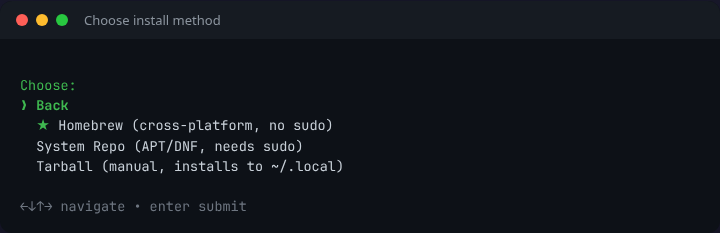
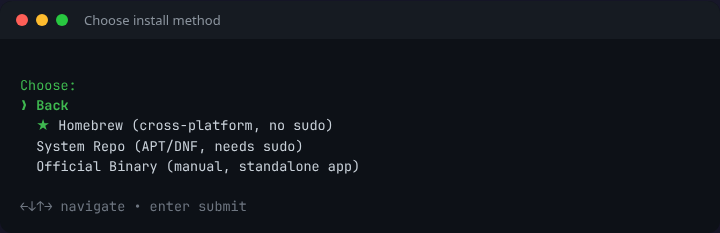
docs: streamline README and rename tarball references to official binary

Changed region(s): [[0.0306, 0.691, 0.4889, 0.7511]]

diff --git a/docs/index.html b/docs/index.html
@@ -217,8 +217,8 @@
                                     <li class="flex items-start gap-3">
                                         <span class="flex-shrink-0 flex items-center justify-center w-6 h-6 bg-amber-500/20 text-amber-400 font-mono rounded text-xs border border-amber-500/30">3</span>
                                         <div>
-                                            <strong class="text-slate-200">Tarball (Fallback)</strong>
-                                            <p class="text-slate-400 text-xs mt-0.5">Linux only. Downloads to a local folder, no sudo required.</p>
+                                            <strong class="text-slate-200">Official Binary</strong>
+                                            <p class="text-slate-400 text-xs mt-0.5">Downloads the official standalone package. No sudo required.</p>
                                         </div>
                                     </li>
                                 </ul>
@@ -262,7 +262,7 @@
                             &bull; <strong>Workspace:</strong> <code class="text-slate-300 bg-slate-900 px-1 py-0.5 rounded font-mono">~/my-antigravity-work</code><br>
                             &bull; <strong>Homebrew:</strong> Managed by <code class="text-slate-300 bg-slate-900 px-1 py-0.5 rounded font-mono">brew</code>.<br>
                             &bull; <strong>System Repo (APT/DNF):</strong> Installed system-wide.<br>
-                            &bull; <strong>Tarball:</strong> Installed to <code class="text-slate-300 bg-slate-900 px-1 py-0.5 rounded font-mono">~/.local/lib/antigravity</code>.
+                            &bull; <strong>Official Binary:</strong> Installed to <code class="text-slate-300 bg-slate-900 px-1 py-0.5 rounded font-mono">~/.local/lib/antigravity</code> or <code class="text-slate-300 bg-slate-900 px-1 py-0.5 rounded font-mono">/Applications</code>.
                         </p>
                     </div>
                 </div>
@@ -272,9 +272,9 @@
             <div class="bg-slate-900/50 border border-slate-700 p-5 rounded-xl flex items-start gap-4">
                 <i data-lucide="download" class="w-6 h-6 text-indigo-400 mt-1 shrink-0"></i>
                 <div>
-                    <h3 class="font-bold text-white mb-1">Need the Linux tarball directly?</h3>
+                    <h3 class="font-bold text-white mb-1">Need the Official Binary directly?</h3>
                     <p class="text-slate-400 text-sm leading-relaxed mb-2">
-                        If the installer doesn't support your Linux distro, download the tarball manually:
+                        If the installer doesn't support your system, download the standalone package manually:
                     </p>
                     <!-- TARBALL_LINK — kept in sync by the nightly CI workflow -->
                     <a href="https://edgedl.me.gvt1.com/edgedl/release2/j0qc3/antigravity/stable/1.23.2-4781536860569600/linux-x64/Antigravity.tar.gz" target="_blank" class="inline-flex items-center gap-2 px-4 py-2 bg-indigo-600 hover:bg-indigo-500 text-white text-sm font-medium rounded-lg transition-colors">

diff --git a/docs/images/render.html b/docs/images/render.html
@@ -63,7 +63,7 @@ body { background: #1a1a2e; display: flex; flex-direction: column; align-items: 
       <span class="dim">github.com/wtg-codes/agv-easy-install</span>
       <span class="dim">──────────────────────────────────────────────────</span>
   <span class="cyan">OS:</span>   <span class="bold">Bluefin (Version: 43.20260505) (Atomic)</span> <span class="dim">(x86_64)</span>
-  <span class="cyan">AGV:</span>  <span class="green">✓ Installed</span> <span class="dim">(Tarball)</span>
+  <span class="cyan">AGV:</span>  <span class="green">✓ Installed</span> <span class="dim">(Binary)</span>
   <span class="cyan">Best:</span> <span class="green">★ Homebrew</span> <span class="dim">(best for this system)</span>
 
 <span class="green">Choose:</span>
@@ -84,7 +84,7 @@ body { background: #1a1a2e; display: flex; flex-direction: column; align-items: 
 <span class="cursor">❯ Back</span>
   <span class="green">★</span> Homebrew (cross-platform, no sudo)
   System Repo (APT/DNF, needs sudo)
-  Tarball (manual, installs to ~/.local)
+  Official Binary (manual, standalone app)
 
 <span class="dim">←↓↑→ navigate • enter submit</span>
 </div>
@@ -119,7 +119,7 @@ body { background: #1a1a2e; display: flex; flex-direction: column; align-items: 
   <span class="green">⠋</span> Downloading Antigravity payload...
   <span class="green">✓</span> Extracting binaries...
 
-<span class="yellow">⚠ Antigravity occasionally fails to find Chrome when installed via Brew or Tarball.</span>
+<span class="yellow">⚠ Antigravity occasionally fails to find Chrome when installed via Brew or Binary.</span>
   We found a valid Chrome binary at: <span class="bold">/usr/bin/google-chrome</span>
 
   <span class="bold">Would you like to automatically configure</span>

diff --git a/README.md b/README.md
@@ -37,11 +37,13 @@ curl -fSsL "https://raw.githubusercontent.com/wtg-codes/agv-easy-install/main/an
 # Or force a specific method
 bash antigravity-manager.sh --install-brew
 bash antigravity-manager.sh --install-repo
-bash antigravity-manager.sh --install-tarball
+bash antigravity-manager.sh --install-binary
 
 # Additional options
 bash antigravity-manager.sh --verbose  # Print detailed logs
 bash antigravity-manager.sh --quiet    # Suppress non-error output
+bash antigravity-manager.sh --check    # Verify existing installation health
+bash antigravity-manager.sh --update   # Force update of this manager script
 bash antigravity-manager.sh --remove   # Uninstall
 bash antigravity-manager.sh --json     # Output single JSON object on completion
 bash antigravity-manager.sh --demo-ui  # Sandbox mode — test the UI without installing
@@ -80,7 +82,7 @@ graph LR
     A["🖥️ User Terminal"] -->|"curl \| bash"| B("antigravity-manager.sh")
     B -->|"Option 1"| C["🍺 Homebrew"]
     B -->|"Option 2"| D["📦 APT / DNF"]
-    B -->|"Option 3"| E["📁 Standalone Tarball"]
+    B -->|"Option 3"| E["📁 Official Binary (.tar.gz, .dmg, .exe)"]
 ```
 
 The installer detects your OS and package manager, then recommends the best method automatically.
@@ -89,21 +91,20 @@ The installer detects your OS and package manager, then recommends the best meth
 
 ## 💻 Supported Platforms
 
-| Platform | Status | Method | Notes |
-|---|---|---|---|
-| **Ubuntu / Debian / Mint / Kali** | ✅ Tested | APT or Tarball | Primary development target |
-| **Fedora / RHEL / CentOS** | ✅ Tested | DNF or Tarball | Auto-updates via system repo |
-| **Bluefin / Silverblue / Atomic Linux** | ✅ Tested | Homebrew or Tarball | Avoids layering; primary dev machine |
-| **macOS** | ⚠️ Beta | Homebrew | Script runs but not fully validated — see [Roadmap](#-roadmap) |
-| **Crostini (ChromeOS)** | ⚠️ Beta | APT / Tarball | Debian container; Chrome host detection |
-| **Windows (WSL)** | ⚠️ Beta | Tarball / APT | WSL2 Ubuntu; GUI shortcuts skipped |
-| **Windows (Git Bash)** | ❌ Blocked | — | Redirects user to WSL2 |
+We support **Linux (APT/DNF/Atomic)**, **macOS (Homebrew/DMG)**, and **Windows (WSL2/Native)**.
+The script automatically detects your environment and recommends the best installation path.
+
+For detailed platform-specific architecture, see our documentation:
+- [Linux Support Notes](docs/architecture/platform-linux.md)
+- [macOS Support Notes (Beta)](docs/architecture/platform-macos.md)
+- [Windows & WSL2 Notes (Beta)](docs/architecture/platform-windows.md)
+- [ChromeOS Crostini Notes (Beta)](docs/architecture/platform-crostini.md)
 
 <details>
-<summary>📥 Manual tarball download (Linux only)</summary>
+<summary>📥 Manual binary download (Linux only)</summary>
 
 ```bash
-# This URL is updated nightly by CI
+# TARBALL_URL
 curl -fSsL "https://edgedl.me.gvt1.com/edgedl/release2/j0qc3/antigravity/stable/1.23.2-4781536860569600/linux-x64/Antigravity.tar.gz" \
   -o Antigravity.tar.gz
 ```
@@ -114,73 +115,33 @@ curl -fSsL "https://edgedl.me.gvt1.com/edgedl/release2/j0qc3/antigravity/stable/
 
 ---
 
-## 📁 Install Locations (Tarball)
+## 📁 Install Locations (Official Binary)
 
 | Item | Path |
 |---|---|
-| Application | `~/.local/lib/antigravity` |
+| Application | `~/.local/lib/antigravity` (Linux) / `/Applications` (macOS) |
 | Binary | `~/.local/bin/antigravity` |
 | Manager | `~/.local/bin/antigravity-manager` |
 | Workspace | `~/my-antigravity-work` |
 
 ---
 
-## 🛠️ Troubleshooting
+## 🛠️ Troubleshooting & Architecture
 
-| Problem | Fix |
-|---|---|
-| `curl: (23) Failed writing body` | Update `curl`, or download the tarball manually |
-| `antigravity: command not found` | Close and reopen your terminal, or run `source ~/.bashrc` (Linux) / `source ~/.zprofile` (macOS) |
-| Homebrew formula not found | Run the installer and choose Tarball instead |
-| macOS: `gum` fails to download | Ensure `curl` works and you have internet. The script falls back to a plain text menu. |
-| macOS: `.desktop` file error | Expected — `.desktop` files are Linux-only. The script should skip this on macOS. File an issue if it doesn't. |
+Having issues? Curious how the installer works under the hood?
 
----
+- **[Implementation Plan & Architecture](docs/architecture/implementation_plan.md)**
+- **[Homebrew Install Details](docs/architecture/install-homebrew.md)**
+- **[System Repo Install Details](docs/architecture/install-repo.md)**
+- **[Official Binary Install Details](docs/architecture/install-tarball.md)**
 
-## 🗺️ Roadmap
-
-> **Philosophy:** If you can get to a shell and paste a command, we help you install.
-> The bash script **is** the cross-platform tool — each new OS adds a detection path.
-
-### ✅ Done
-
-| Feature | Notes |
-|---|---|
-| Linux APT / DNF install | Ubuntu, Debian, Fedora, RHEL |
-| Standalone tarball install | Any Linux with glibc ≥ 2.28 |
-| Homebrew install path | Linux + macOS (code exists) |
-| SHA-256 integrity checks | Verifies tarball before extraction |
-| Hierarchical gum TUI | Cancel-first, sub-menus, sandbox mode |
-| Auto-detection + recommendation | OS, package manager, existing install |
-| Windows / WSL2 detection | Detects MSYS2 (hard block), guides to WSL2 |
-| ChromeOS / Crostini detection | Detects milestone, garcon, auto-suggests APT |
-
-### ⚠️ In Progress — macOS
-
-| Task | Status |
-|---|---|
-| `gum` bootstrap on macOS (arm64 + x86_64) | 🔍 Needs testing |
-| Skip `.desktop` file creation on Darwin | ✅ Done |
-| `open` vs `xdg-open` for easter egg | ✅ Done |
-| `shasum -a 256` fallback for tarball verification | ✅ Done |
-| PATH setup for `~/.zprofile` vs `~/.bashrc` | ✅ Done |
-| Tarball fallback with Gatekeeper `xattr` warning | ✅ Done |
-| Homebrew formula actually installs Antigravity on macOS | 🔍 Needs testing |
-| End-to-end test on macOS Sonoma / Sequoia | ❌ Not yet done |
-
-### 📋 Planned
-
-| Feature | Notes |
-|---|---|
-| Official binary installers (macOS / Windows) | Scrape official release site for platform-specific binaries |
-| macOS `.dmg` download fallback | For users without Homebrew |
-| CI gate tests on macOS | ✅ Done — `ci.yml` runs on `macos-latest` |
+If `curl` fails, ensure you have an active internet connection. If the `gum` UI fails to download, the script gracefully falls back to a plain text menu.
 
 ---
 
 ## 📝 Changelog
 
-See **[CHANGELOG.md](CHANGELOG.md)** for release history.
+See **[CHANGELOG.md](CHANGELOG.md)** for release history and recent updates.
 
 ---
 